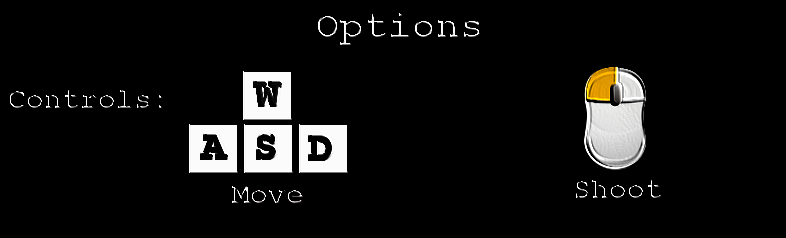
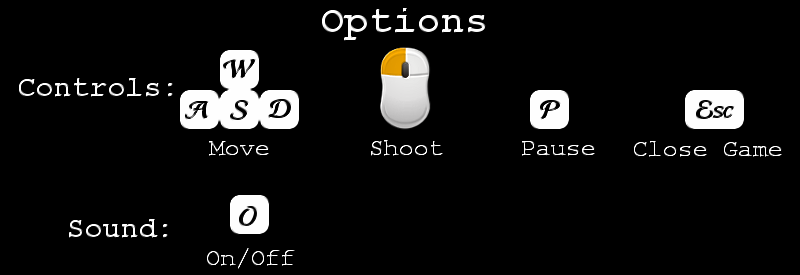
optionscreen finish and sound on/off setting

diff --git a/Finline/Code/GameState/StateManager.cs b/Finline/Code/GameState/StateManager.cs
@@ -61,21 +61,6 @@ namespace Finline.Code.GameState
 
         private readonly Dictionary<EGameState, List<GuiElement>> guiElements = new Dictionary<EGameState, List<GuiElement>>();
 
-        //private GuiElement btnPLayElement;
-        //private GuiElement btnOptionElement;
-        //private GuiElement btnEndElement;
-
-        //private Texture2D playTexture2D;
-        //private Rectangle playRectangle;
-
-        ////private Texture2D optionTexture2D;
-        ////private Rectangle optionRectangle;
-
-        ////private Texture2D quitGameTexture2D;
-        ////private Rectangle quitGameRectangle;
-
-
-
         private Song musicMainMenu;
         
 
@@ -136,30 +121,12 @@ namespace Finline.Code.GameState
                 }
             }
 
+            // buttons in the pausescreen
             this.guiElements[EGameState.InGame].Find(x => x.AssetName == "Play").MoveElement(0, -100);
             this.guiElements[EGameState.InGame].Find(x => x.AssetName == "Options").MoveElement(0, 0);
             this.guiElements[EGameState.InGame].Find(x => x.AssetName == "End").MoveElement(0, 100);
 
-            //this.playTexture2D = this.Content.Load<Texture2D>("PlayTrans");
-            //this.playRectangle = new Rectangle(280, 150, this.playTexture2D.Width - 20, this.playTexture2D.Height - 20);
-
-            //btnPLayElement = new GuiElement("PlayTrans");
-
-
-
-
-            //this.optionTexture2D = this.Content.Load<Texture2D>("Option2Trans");
-            //this.optionRectangle = new Rectangle(280, 250, this.optionTexture2D.Width - 20, this.optionTexture2D.Height - 20);
-
-            //btnOptionElement = new GuiElement("Option2Trans");
-
-
-            //this.quitGameTexture2D = this.Content.Load<Texture2D>("End2Trans");
-            //this.quitGameRectangle = new Rectangle(280, 350, this.quitGameTexture2D.Width - 20, this.quitGameTexture2D.Height - 20);
-
-            //btnEndElement = new GuiElement("End2Trans");
-
-
+            //music in titlescreen and menusystem
             this.musicMainMenu = this.Content.Load<Song>("musicMainMenu");
             if (this.nextGameState == EGameState.MainMenu)
                 MediaPlayer.Play(this.musicMainMenu);
@@ -190,7 +157,7 @@ namespace Finline.Code.GameState
         {
             // TODO: Unload any non ContentManager content here
         }
-        
+
 
         /// <summary>
         /// The update.
@@ -198,11 +165,29 @@ namespace Finline.Code.GameState
         /// <param name="gameTime">
         /// The game time.
         /// </param>
+        private bool off = false;
+        KeyboardState oldKeyState;
         protected override void Update(GameTime gameTime)
         {
-
+             
             if (this.nextGameState == EGameState.InGame)
                 MediaPlayer.Stop();
+
+            KeyboardState newKeyState = Keyboard.GetState();
+            if (newKeyState.IsKeyDown(Keys.O) && oldKeyState.IsKeyUp(Keys.O))
+            {
+                if (off == true)
+                {
+                    MediaPlayer.Pause();
+                }
+                else
+                {
+                    MediaPlayer.Resume();
+                }
+                off = !off;
+            }
+            oldKeyState = newKeyState;
+
 
             if (GamePad.GetState(PlayerIndex.One).Buttons.Back == ButtonState.Pressed
                 || Keyboard.GetState().IsKeyDown(Keys.Escape))
@@ -224,7 +209,7 @@ namespace Finline.Code.GameState
 
             if (k.IsKeyDown(Keys.P) && !this.isPressed)
                 {
-                    foreach (var element in this.guiElements[this.currentGameState])  //muss noch verbessert werden, da die buttons noch nicht verwendet werden
+                    foreach (var element in this.guiElements[this.currentGameState])  //muss noch verbessert werden, da die buttons noch nicht verwendet werden können
                     {
                         element.Update(ref this.isPressed);
                     }

diff --git a/Finline/Code/GameState/MainMenu.cs b/Finline/Code/GameState/MainMenu.cs
@@ -96,7 +96,7 @@ namespace Finline.Code.GameState
             this.guiElements[EMenuState.CharacterScreen].Find(x=> x.AssetName =="StartGame").MoveElement(0, 25); // move the "StartGame" button up in y-direction
             this.guiElements[EMenuState.CharacterScreen].Find(x => x.AssetName == "Back2MainMenu").MoveElement(0, 100); // move the "Back_to_MainMenu" button down in y-direction
             
-            this.guiElements[EMenuState.Option].Find(x => x.AssetName == "Controls").MoveElement(0, -185);
+            this.guiElements[EMenuState.Option].Find(x => x.AssetName == "Controls").MoveElement(-10, -165);
             this.guiElements[EMenuState.Option].Find(x => x.AssetName == "Back2MainMenu").MoveElement(0, 80); // move the "Back_to_MainMenu" button down in y-direction
             
             this.guiElements[EMenuState.Records].Find(x => x.AssetName == "Back2MainMenu").MoveElement(0, 70); // move the button down in y-direction
@@ -130,10 +130,6 @@ namespace Finline.Code.GameState
         public override void Draw(GameTime gameTime)
         {
             this.spriteBatch.Begin();
-            if (this.menuState == EMenuState.Option)
-            {
-                this.spriteBatch.DrawString(this.font, "Sound: ", new Vector2(50, 250), Color.White);
-            }
 
             if (this.menuState == EMenuState.Records)
             {
@@ -196,6 +192,7 @@ namespace Finline.Code.GameState
             if (element == "Records")
             {
                 this.menuState = EMenuState.Records;
+               
             }
 
             if (element == "Back2MainMenu")
